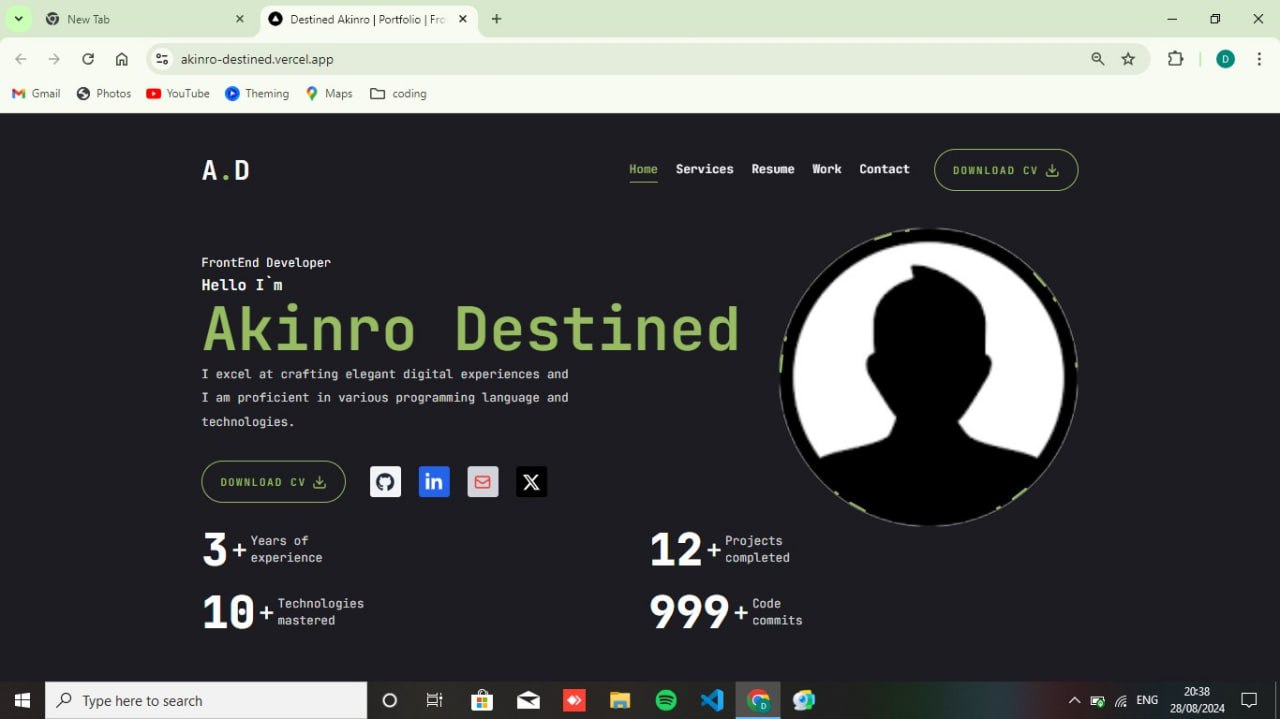
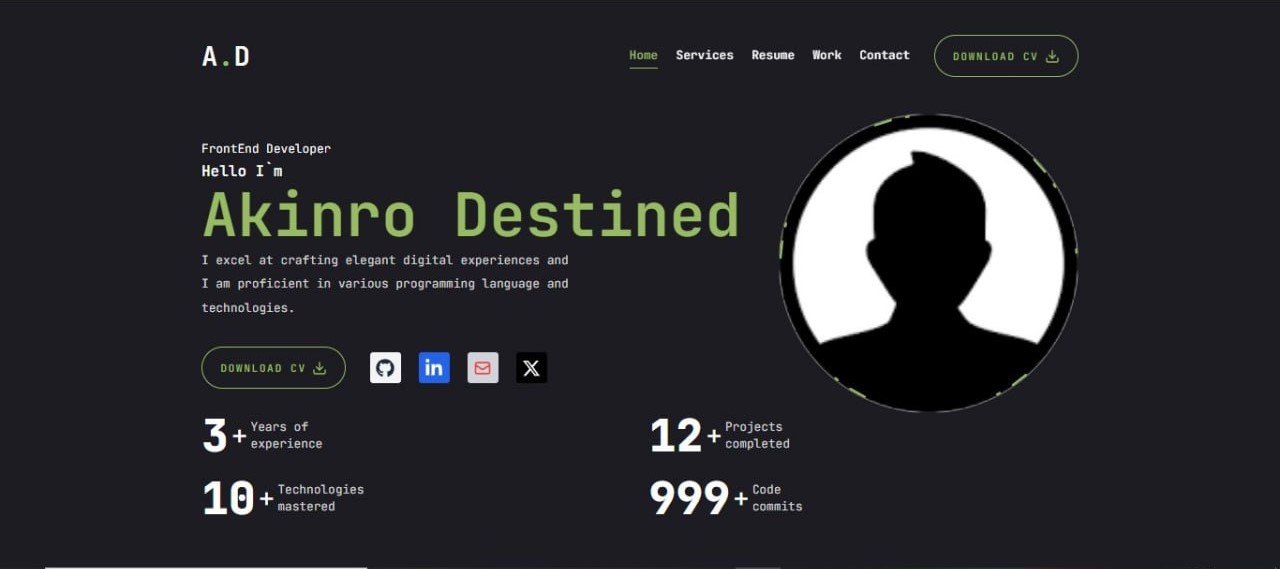
work page

diff --git a/app/work/page.tsx b/app/work/page.tsx
@@ -132,11 +132,11 @@ const Work = () => {
               </div>
             </div>
           </div>
-          <div className='w-full xl:w-[50%]'>
+          <div className='w-full xl:w-[50%] flex'>
             <Swiper
               spaceBetween={30}
               slidesPerView={1}
-              className='xl:h-[520px] mb-12'
+              className='h-fit mb-12 m-auto'
               onSlideChange={handleSlideChange}
             >
               {projects.map(
@@ -154,7 +154,7 @@ const Work = () => {
                   index
                 ) => (
                   <SwiperSlide key={index} className='w-full'>
-                    <div className='h-[460px] relative group flex justify-center items-center bg-pink-50/20'>
+                    <div className='h-[250px] relative group flex justify-center items-center bg-pink-50/20'>
                       <div className='absolute top-0 bottom-0 w-full h-full bg-black/10 z-10'></div>
                       <div>
                         <Image
